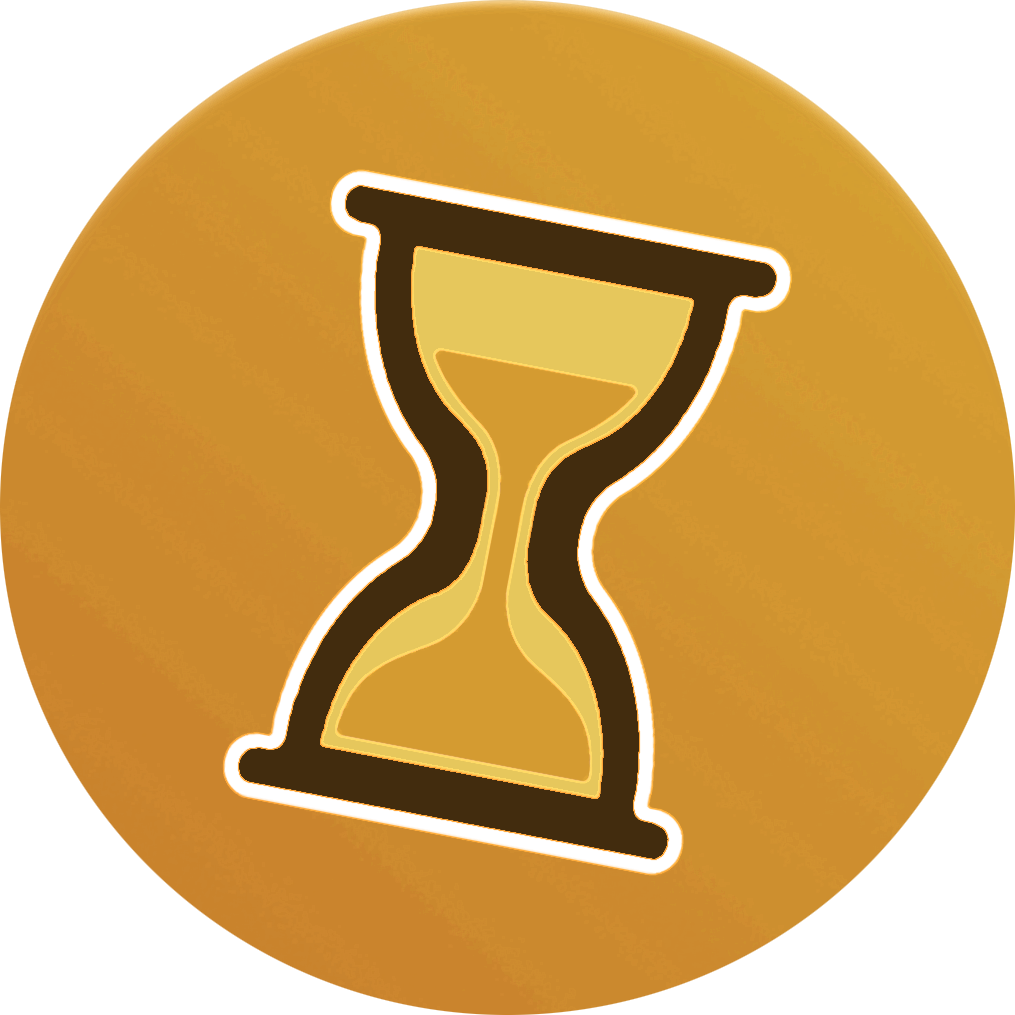
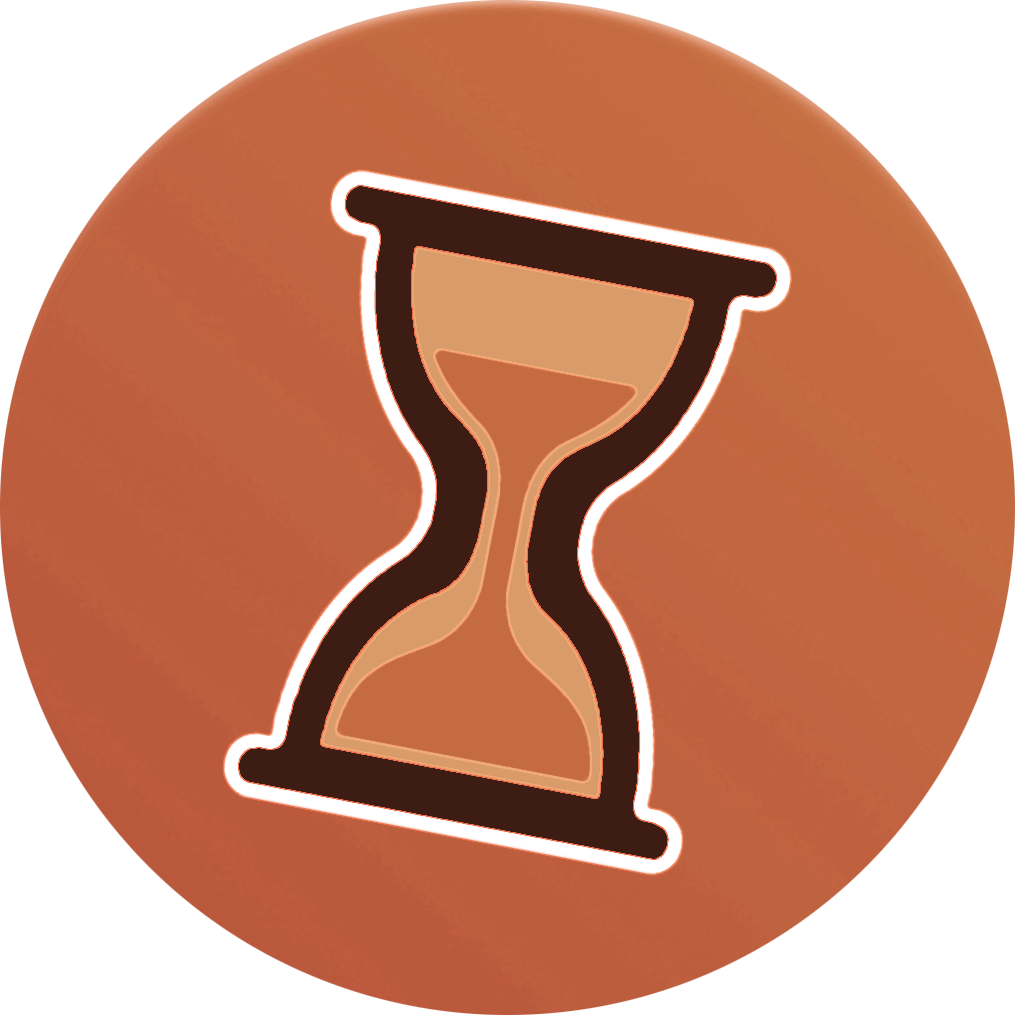
style: upload new badges

diff --git a/css/style.css b/css/style.css
@@ -597,6 +597,7 @@ pre {
 #labelSettings {
   position: relative;
   z-index: 300;
+  cursor: pointer;
 }
 
 .caret {
@@ -746,6 +747,7 @@ button#check:not(.disabled):hover {
 
 #settings {
   position: relative;
+  cursor: pointer;
 }
 
 .toggle {
